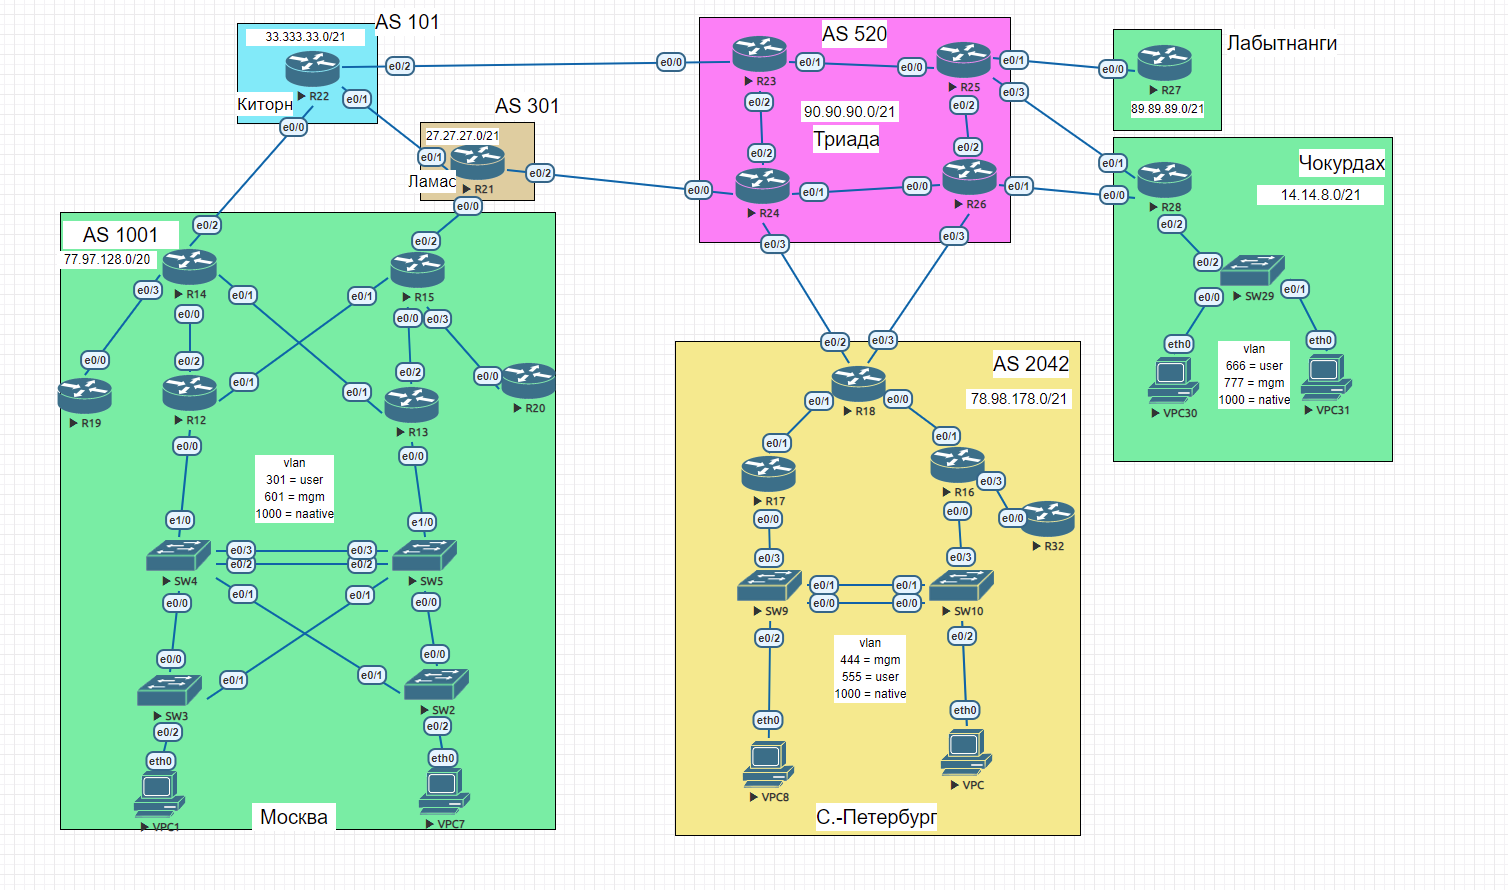
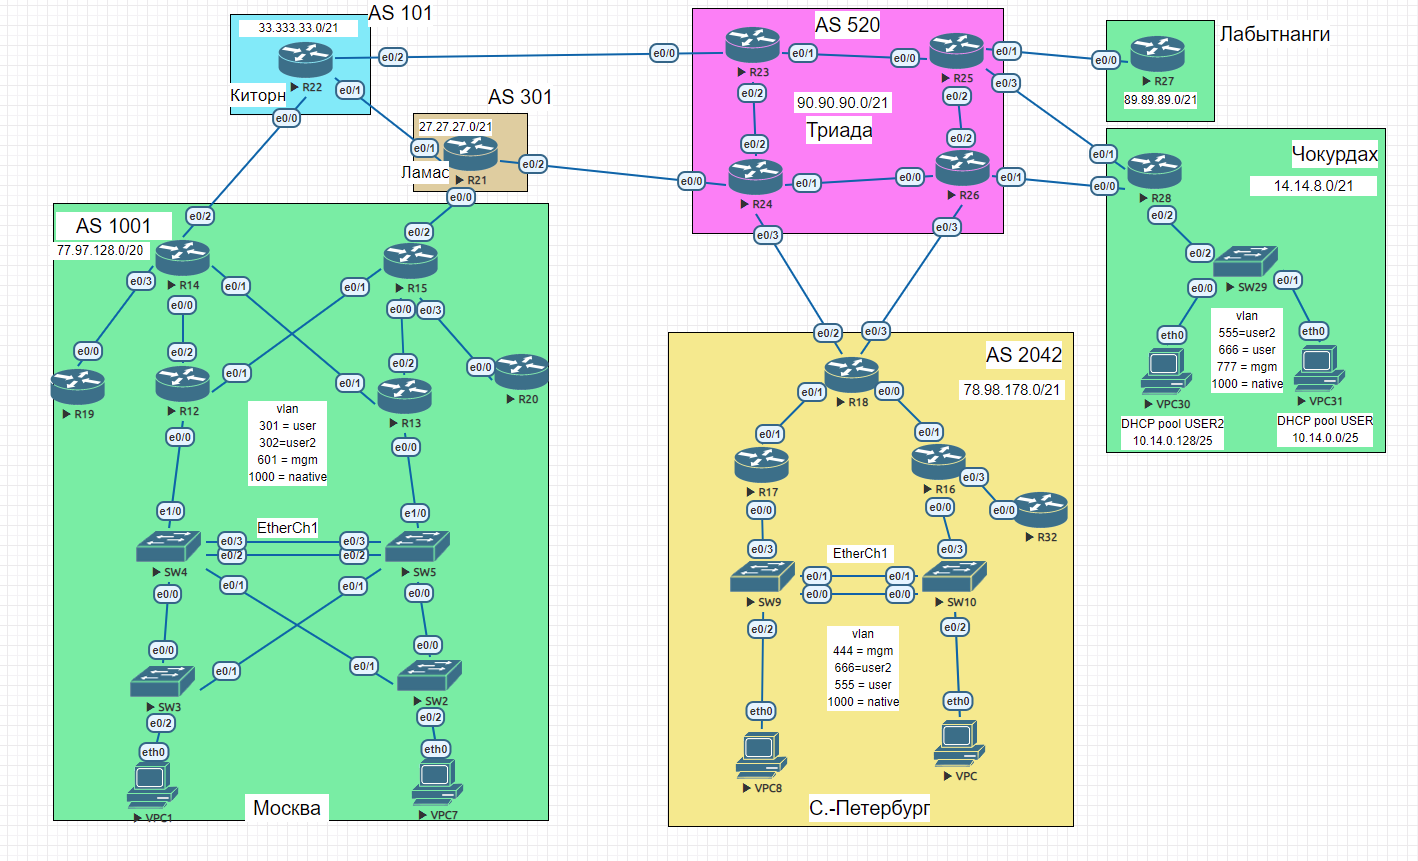
###

diff --git a/lab/PBR/README.md b/lab/PBR/README.md
@@ -1,0 +1,152 @@
+<a id=top></a>
+
+# PBR 
+
+###  Схема:
+
+![](scheme.PNG)
+
+
+### Цели:
+
+1. [Настроить политику маршрутизации в офисе Чокурдах](#1)
+2. [Распределить трафик между двумя линками с провайдером](#2)
+3. [Настроить отслеживание линка через технологию IP SLA](#3)
+4. [Настройть для офиса Лабытнанги маршрут по-умолчанию ](#4)
+5. [Конфиг](cfg/)
+
+
+###  Решение:
+  1. Настроить политику маршрутизации в офисе Чокурдах:<a id=1></a>
+    
+      |  Eq  | Prot  |  Destination  |Gateway |M| Description|
+      | ------------ | ------------| ------------ | ------------ |------------ |------------|
+      |  cho-R28 |  IPv4  | 0.0.0.0/0  | 14.14.8.26 |1 | to tri-R26| 
+      | cho-R28  | IPv6  | ::/0  | 20FF:CCFF:200F:6::26 | 1| to tri-R26| 
+      |  cho-R28 |   IPv4|  0.0.0.0/0  | 14.14.9.25 | 1 | to tri-R25 |
+      | cho-R28  | IPv6  | ::/0 |20FF:CCFF:200F:6::25 | 1| to tri-R25| 
+
+      Настриваем  статические маршрут. Основной  линк  в  сторону  tri-R26 (14.14.8.26)
+
+            cho-R28(config)# ip route 0.0.0.0 0.0.0.0 14.14.8.26 name to-tri-r26
+            cho-R28(config)#ip route 0.0.0.0 0.0.0.0 14.14.9.25 10 name to-tri-r25
+            cho-R28(config)# ipv6 route ::/0 20FF:CCFF:200F:7::25 10 name to-tri-r25
+            cho-R28(config)# ipv6 route ::/0 20FF:CCFF:200F:6::26 name to-tri-R26
+            
+
+
+
+
+  2. Распределить трафик между двумя линками с провайдером<a id=2></a>
+      
+   > У нас  в офисе  имеются  два  VPC 30 и VPC 31  которые  находиться  в разных vlan. На данный  момент основным маршрутом  является  линк  в  сторону  tri-R26 (14.14.8.26) нам  потребовалось  что бы трафик  который  относятся к vlan 555 шел в сторону  tri-R25 (14.14.9.25 )
+  
+   > Настроим NAT  т.к  у нас  на роутере два outside интерфейса, будем настраивать  с помощью  route-map  
+
+  * Настраиваем  внутренние  и внешние  интерфейсы 
+
+        cho-R28#conf t
+        cho-R28(config)# interface Ethernet0/2.555
+        cho-R28(config-subif)# ip nat inside
+
+        cho-R28(config-subif)# interface Ethernet0/2.666
+        cho-R28(config-subif)# ip nat inside
+
+        cho-R28(config-subif)# interface Ethernet0/0
+        cho-R28(config-if)#  ip nat outside
+        
+        cho-R28(config)# interface Ethernet0/1
+        cho-R28(config-if)#  ip nat outside
+  
+  * Настраиваем ACL для каждого VLAN 
+
+        cho-R28(config)# ip access-list extended  VLAN555
+        cho-R28(config-ext-nacl)# permit ip 10.14.0.128 0.0.0.127 any
+
+        cho-R28(config)# ip access-list extended  VLAN555
+        cho-R28(config-ext-nacl)# permit ip 10.14.0.128 0.0.0.127 any
+
+  * Cоздаем  route-map
+
+        cho-R28(config)# route-map NAT_TRIR26 permit 10
+        cho-R28(config-route-map)# match ip address VLAN555 
+        cho-R28(config-route-map)# match ip address VLAN666
+        cho-R28(config-route-map)# match interface Ethernet0/0
+
+        cho-R28(config)# route-map NAT_TRIR25 permit 10
+        cho-R28(config-route-map)# match ip address VLAN555 
+        cho-R28(config-route-map)# match ip address VLAN666
+        cho-R28(config-route-map)# match interface Ethernet0/1
+
+  * Задаем  что трафик из локалки  в первого или второго провайдера надо натить через e0/0 или e0/1
+
+        cho-R28(config)# ip nat inside source route-map NAT_TRI25 interface Ethernet0/1 overload
+        cho-R28(config)# ip nat inside source route-map NAT_TRIR26 interface Ethernet0/0 overload 
+  
+  * Теперь создаем  route-map  для  изменения  маршрута клиентов  с  vlan 555 
+
+        cho-R28(config)# route-map VLAN555 permit 10
+        cho-R28(config-route-map)# match ip address VLAN555
+        cho-R28(config-route-map)# set ip next-hop 14.14.9.25
+
+    > Теперь весь трафик  с клиентов  с  vlan 555 будет уходить в  сторону  tri-R25
+
+
+  3. Настроить отслеживание линка через технологию IP SLA<a id=3></a>
+
+  * Создаем IP SLA тест  (icmp-echo)
+
+        cho-R28(config)#ip sla 1
+        cho-R28(config-ip-sla)# icmp-echo 14.14.8.26 source-ip 14.14.8.28
+
+  * Включаем IP SLA тест
+
+        cho-R28(config)# ip sla schedule 1 life forever start-time now
+
+  * Кроме  SLA  так же  требуется настроить track к которому прикрепляем  созданный SLA 
+
+        cho-R28(config)# track  1 ip sla  1 reachability
+  
+  * Применяем трек на сам маршрут 
+
+        cho-R28(config)#ip route 0.0.0.0  0.0.0.0 14.14.8.26 name tri-R26 track 1
+
+  > Теперь после падения  линка  у нас будет меняться  маршрут 
+
+  > На данный  момент все хорошо кроме  одного,  при падение  линка в   сторону tri-R25(14.14.9.25 )  у нас весь трафик  который  идет через этот канал попадает в дыру. Пробуем  исправить 
+
+  * Создаем второй IP SLA тест  (icmp-echo)
+
+        cho-R28(config)#ip sla 2
+        cho-R28(config-ip-sla)# icmp-echo 14.14.9.25 source-ip 14.14.9.28
+  
+  * Включаем IP SLA тест
+
+        cho-R28(config)# ip sla schedule 2 life forever start-time now
+
+  * Привязываем track 
+
+        cho-R28(config)# track  2 ip sla  2 reachability
+
+  * Правим самую малость route-map 
+
+        cho-R28(config)# route-map VLAN555 permit 10
+        cho-R28(config-route-map)# set ip next-hop verify-availability 14.14.9.25 1 track 2
+        cho-R28(config-route-map)# set ip next-hop 14.14.8.26
+
+  >  Теперь в случае  недоступности  tri-R25 14.14.9.25 трафик  будет  идти по   основному каналу tri-R26 14.14.8.26
+
+
+  4. Настройть для офиса Лабытнанги маршрут по-умолчанию <a id=4></a>
+        
+      |  Eq  | Prot  |  Destination  |Gateway |M| Description|
+      | ------------ | ------------| ------------ | ------------ |------------ |------------|
+      |  lab-R27 |  IPv4  | 0.0.0.0/0  | 89.89.89.25 |1 | to tri-R25| 
+      | lab-R27  | IPv6  | ::/0  | 20FF:CCFF:200F:6::26 | 1| to tri-R25| 
+
+            lab-R27#conf t 
+            lab-R27(config)#ip route  0.0.0.0 0.0.0.0 89.89.89.25 name to-tri-R25
+            lab-R27(config)#ipv6  route ::/0 20FF:CCFF:200C:1::25
+
+
+[top](#top)

diff --git a/lab/Net_IPv4_v6/README.MD b/lab/Net_IPv4_v6/README.MD
@@ -50,8 +50,6 @@
 | 77.97.131.0/24   | 77.97.128.0/20 | 20FF:CCFF:2000:4::/64    | 20FF:CCFF:2000::/48 | ##### |
 | 77.97.132.0/24   | 77.97.128.0/20 | 20FF:CCFF:2000:5::/64    | 20FF:CCFF:2000::/48 | ##### |
 | 77.97.133.0/24   | 77.97.128.0/20 | 20FF:CCFF:2000:6::/64    | 20FF:CCFF:2000::/48 | ##### |
-| 100.64.0.0/24    | 100.64.0.0/10  | 20FF:CCFF:2000:3::/64    | 20FF:CCFF:2000::/48 | MGM |
-| 10.168.1.0/24 | 10.168.1.0/24 | 20FF:CCFF:2000:4::/64 | 20FF:CCFF:2000:::/64 | DHCP Users | 
 
 
 #### Санкт-Петербург - AS2042 <a id=2></a>
@@ -63,7 +61,6 @@
 | 78.98.178.0/24   | 78.98.176.0/21 | 20FF:CCFF:200A:1::/64    | 20FF:CCFF:200A::/48 | ##### |
 | 78.98.179.0/24   | 78.98.176.0/21 | 20FF:CCFF:200A:2::/64    | 20FF:CCFF:200A::/48 | ##### |
 | 100.64.2.0/24    | 100.64.2.0/10  | 20FF:CCFF:2000:7::/64    | 20FF:CCFF:2000::/48 | MGM |
-| 10.168.3.0/24 | 10.168.3.0/24 | 20FF:CCFF:2000:7::/64 | 20FF:CCFF:2000:::/64 | DHCP Users | 
 
 
 
@@ -125,7 +122,8 @@
 | 14.14.8.0/24   | 14.14.8.0/21 | 20FF:CCFF:200B:6  ::/64    | 20FF:CCFF:200B::/48 | ##### |
 | 14.14.9.0/24   |14.14.8.0/21 | 20FF:CCFF:200B:7::/64    | 20FF:CCFF:200B::/48 | ##### |
 | 14.14.10.0/24   |14.14.8.0/21 | 20FF:CCFF:200B:8::/64    | 20FF:CCFF:200B::/48 | ##### |
-| 10.168.2.0/24 | 192.168.2.0/24 | 20FF:AAFF:2000:1::/64 | 20FF:AAFF:2000:::/64 | DHCP Users |
+| 10.168.14.0/25 | 10.168.2.0/24 | 20FF:AAFF:2000:1::/64 | 20FF:AAFF:2000:::/64 | DHCP Users |
+| 10.168.14.0/25 | 10.168.2.0/24 | 20FF:AAFF:2000:1::/64 | 20FF:AAFF:2000:::/64 | DHCP Users2 |
 | 100.64.1.0/24    | 100.64.1.0/10  | 20FF:AAFF:2000:1::/64    | 20FF:AAFF:2000::/48 | MGM |
 
 
@@ -281,16 +279,17 @@
 
 ###  4. Что по офисам  ? 
  
-В офисах у нас  будет один общий  вилан  без разделений на отделы в компаниях  и   настроен только  DHCPv4 на  ротуре  по удобства  IPv6 для  траблшутинга  etc   <a id=123></a>
+В офисах у нас  будет разный   вилан   для каждого VPC    настроен только  DHCPv4 на  ротуре  по удобства  IPv6 для  траблшутинга  etc   <a id=123></a>
 
-|Москва   | С-Петербург  | Чокурдах| 
-| ------------ | ------------ | ------------ |
-| DHCPv4  | DHCPv4 | DHCPv4 |
-| 10.168.1.0/24  | 10.168.3.0/24  | 10.168.2.0/24 |
-| VLAN  | VLAN | VLAN |
+|Москва   | С-Петербург  | Чокурдах|  Описание | 
+| ------------ | ------------ | ------------ |------------ |
+| DHCPv4  | DHCPv4 | DHCPv4 | #### | 
+| 10.77.0/25  | 10.78.0.0/25 | 10.14.0.0/25 | USER | 
+| 10.77.0.128/25  | 10.78.0.128/25  | 10.14.0.128/25 | USER2 | 
+| VLAN  | VLAN | VLAN | ### | 
+| USER  301 | USER  555 | USER 666 | VPC| 
+| USER2  302 | USER2  666 | USER2 555 | VPC | 
 | MGM 601 | MGM 444 | MGM 777 |
-| USER  301 | USER  555 | USER 666 |
-
 ------------
 
 [top](#top)
